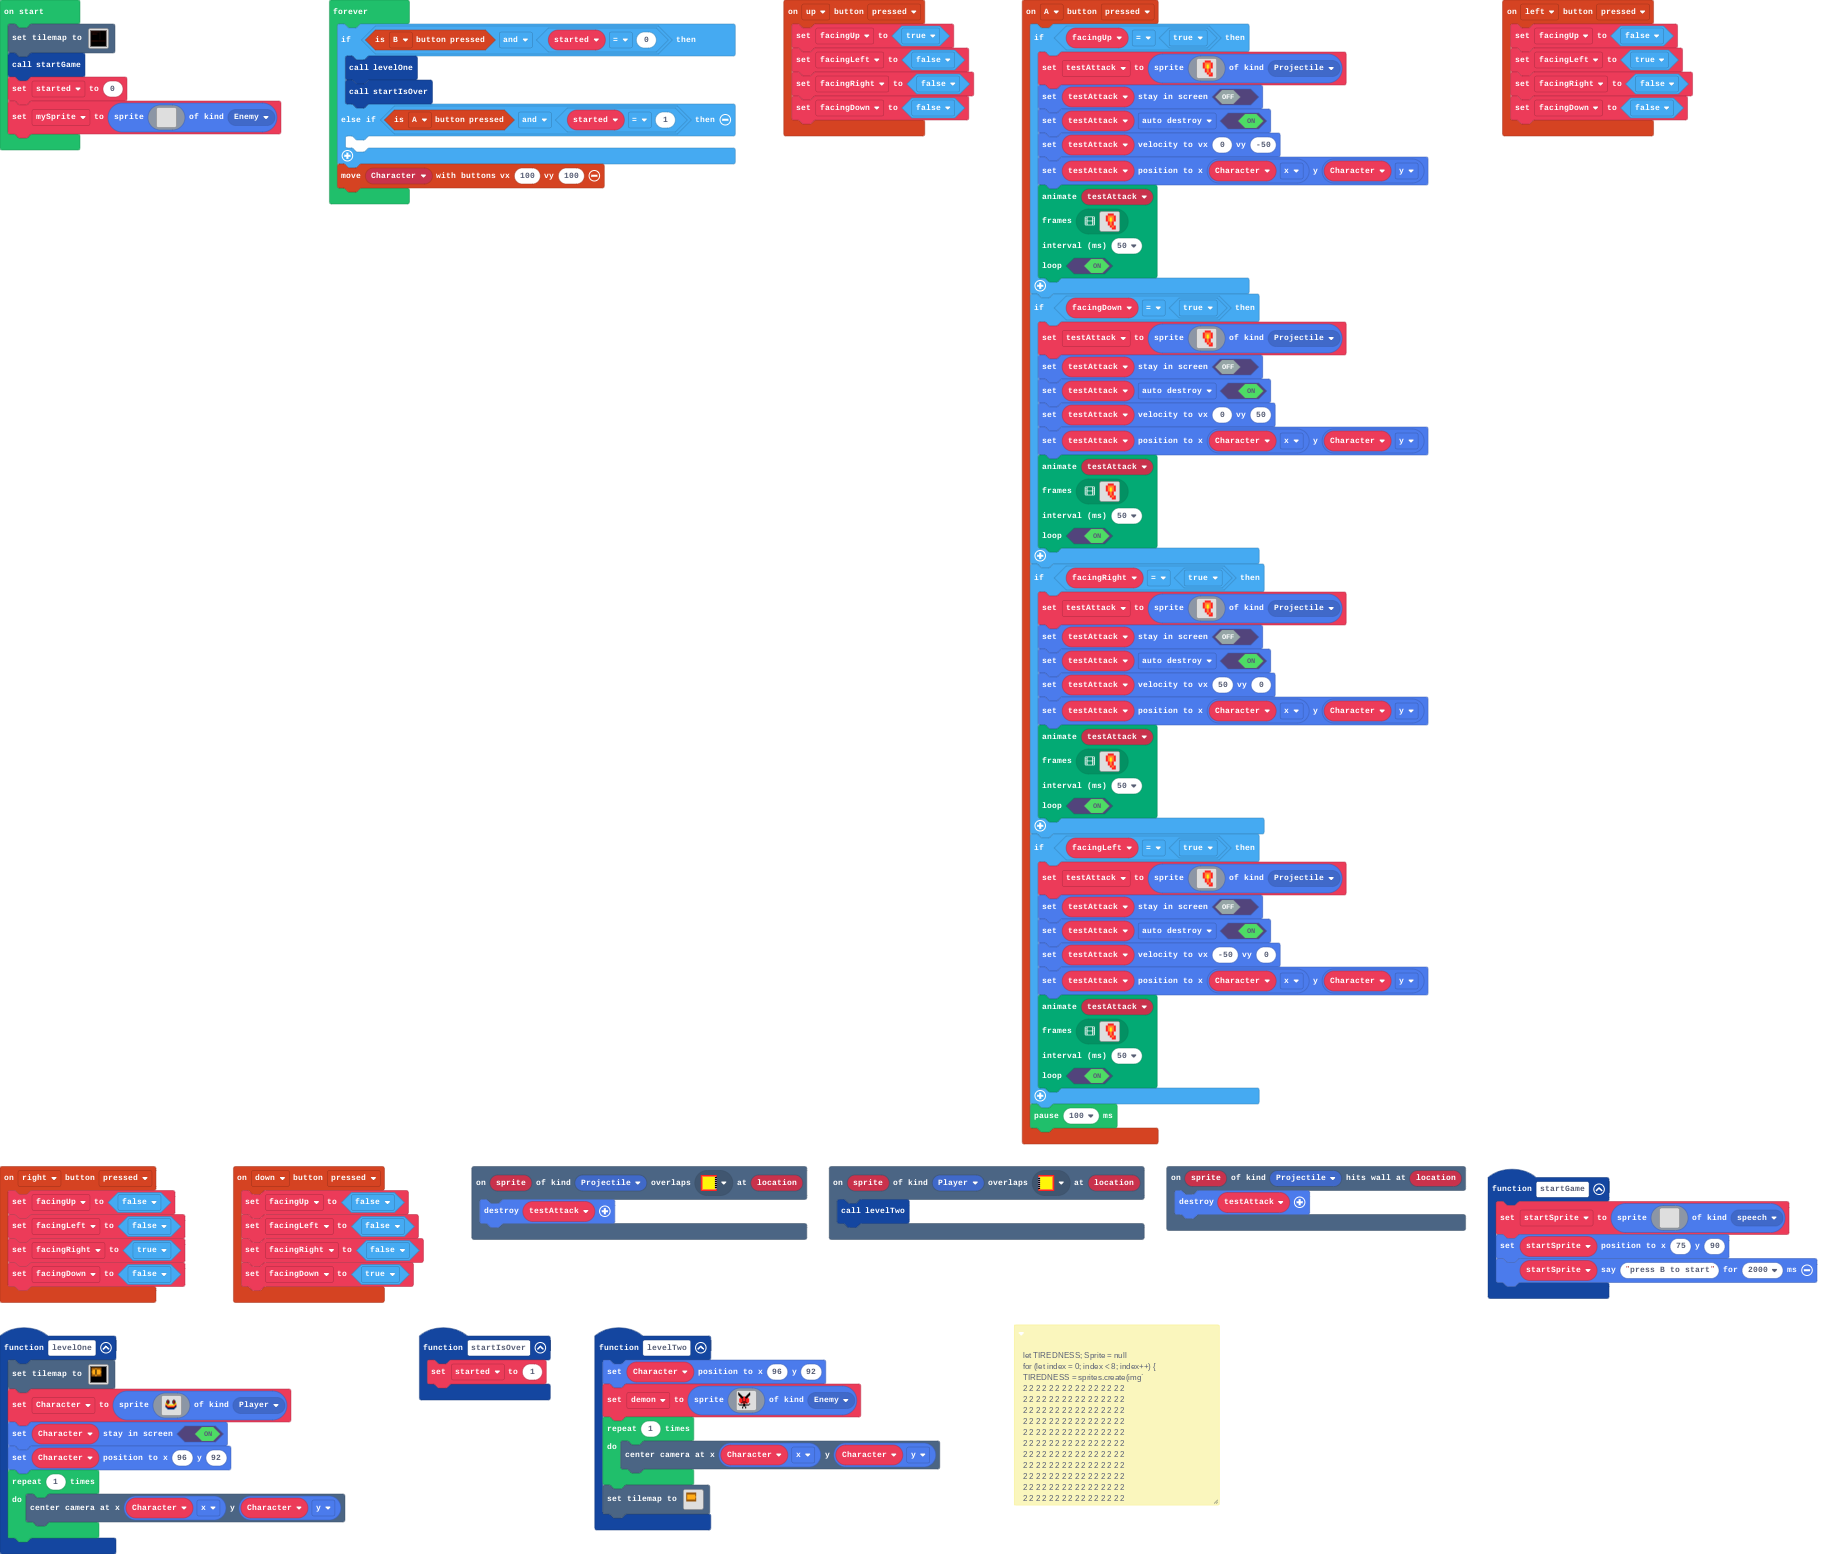
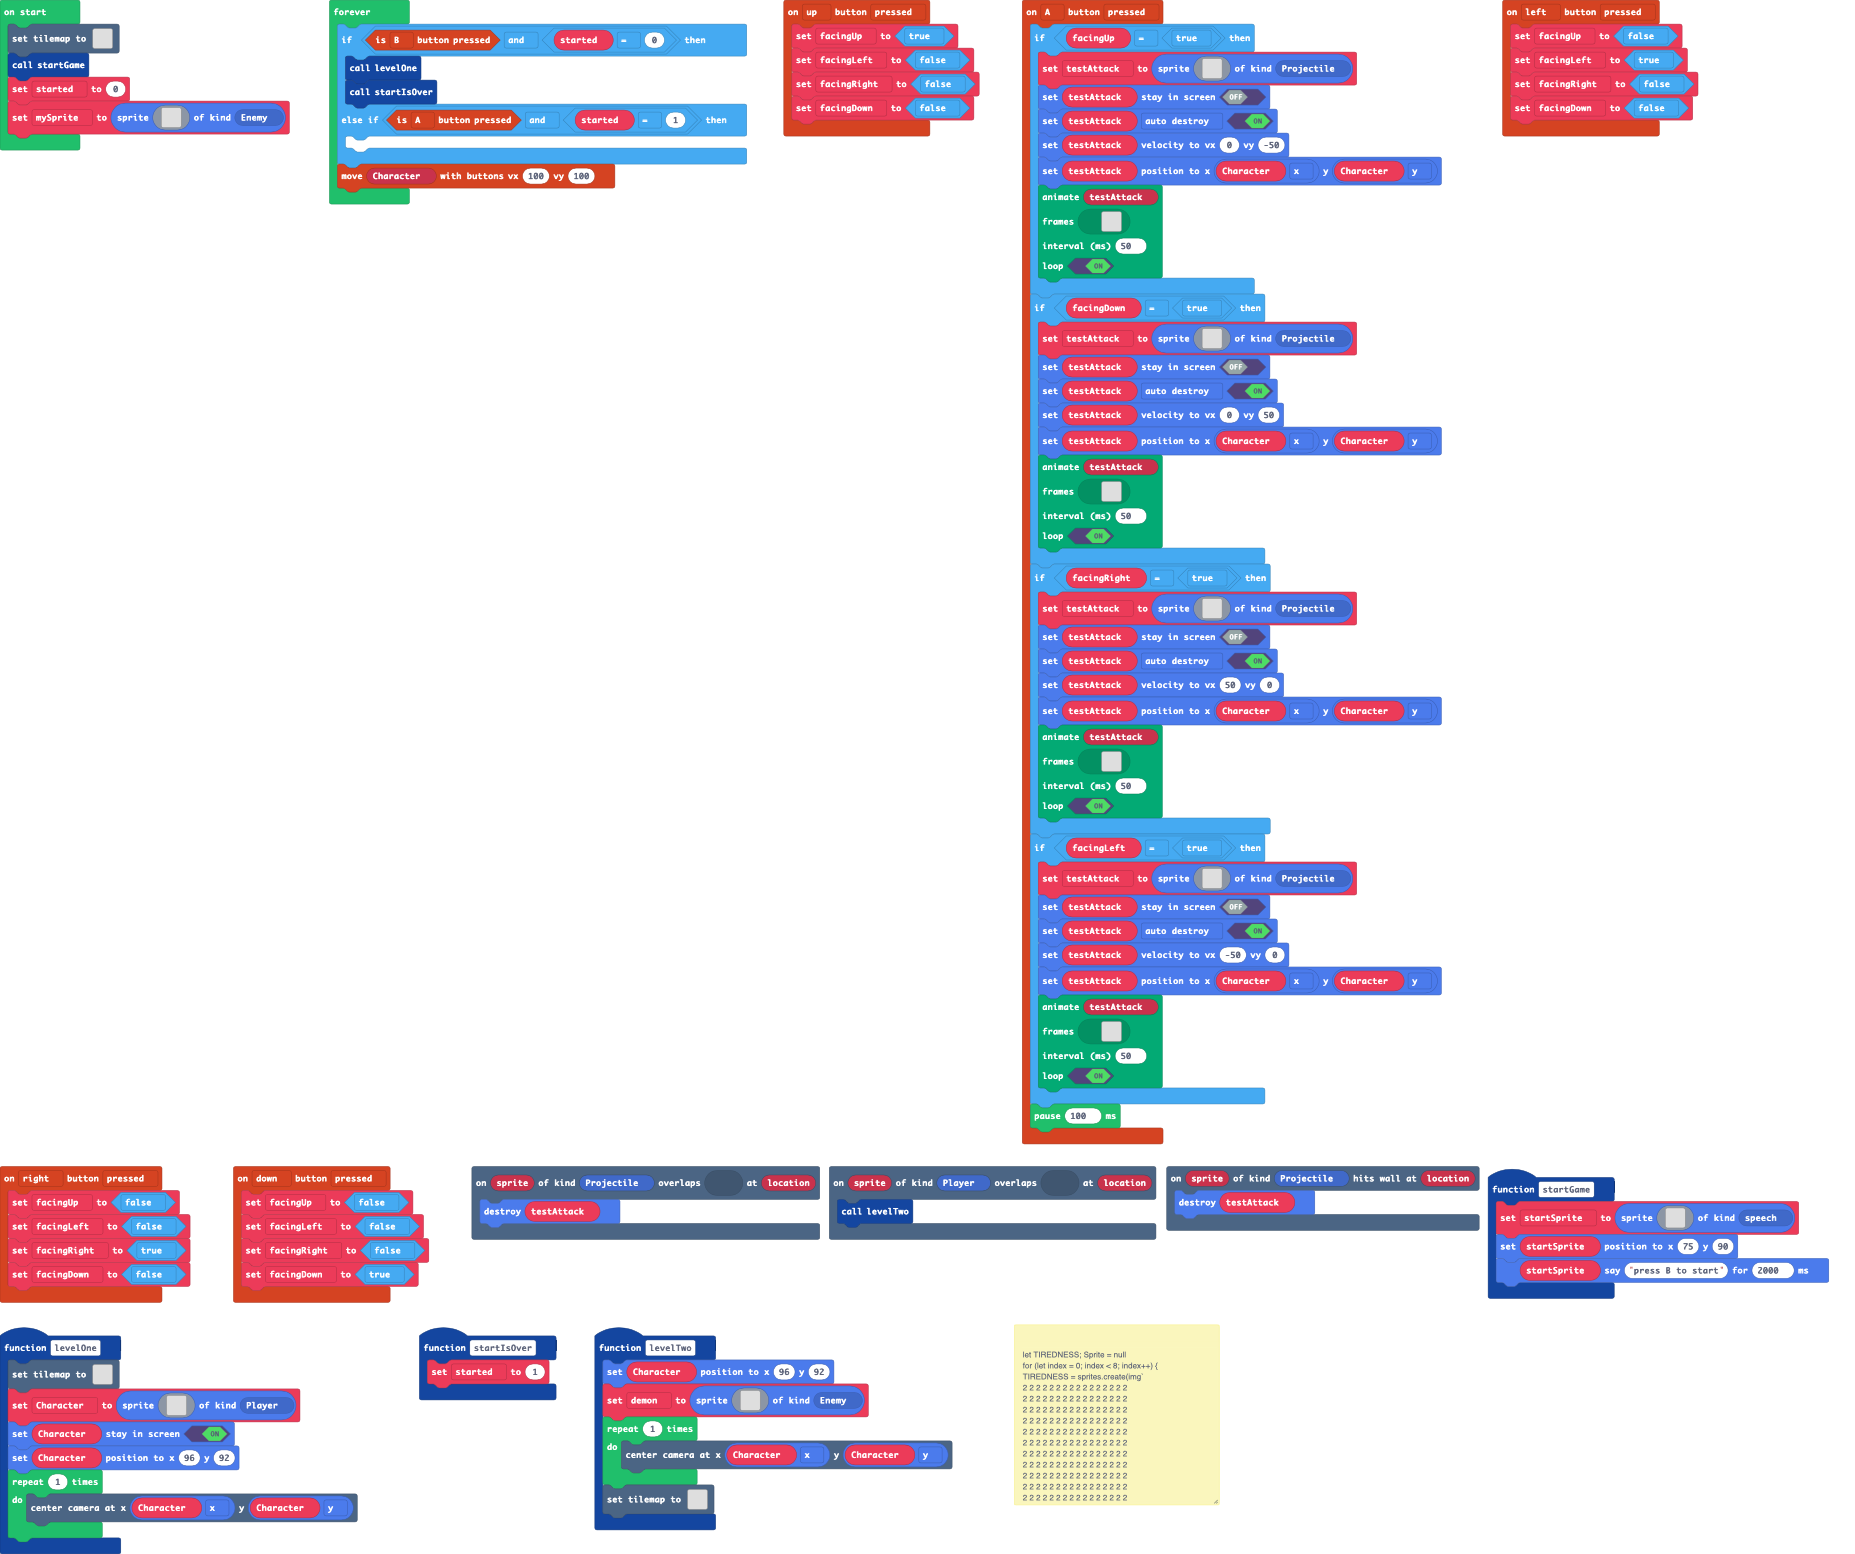
Update main.blocks, images.g.jres, images.g.ts

diff --git a/images.g.ts b/images.g.ts
@@ -122,6 +122,195 @@ namespace myImages {
 . 2 4 2 2 . . . 
 . 2 2 . . . . . 
 `];
+            case "myAnim":
+            case "anim2":return [img`
+. . . . . . . . . . . . . . . . 
+. . . . . . . . . . . . . . . . 
+. . . . . . . . . . . . . . . . 
+. . . . . . . . . . . . . . . . 
+. . . . . . . . . . . . . . . . 
+. . . . . . . . . . . . . . . . 
+. . . . . . f f f . . . . . . . 
+. . . . . f f f f f . . . . . . 
+. . . . . f f f f f . . . . . . 
+. . . . . . . f f . . . . . . . 
+. . . . . . . . . . . . . . . . 
+. . . . . . . . . . . . . . . . 
+. . . . . . . . . . . . . . . . 
+. . . . . . . . . . . . . . . . 
+. . . . . . . . . . . . . . . . 
+. . . . . . . . . . . . . . . . 
+`, img`
+. . . . . . . . . . . . . . . . 
+. . . . . . . . . . . . . . . . 
+. . . . . . . . . . . . . . . . 
+. . . . . . . . . . . . . . . . 
+. . . . . . . . . . . . . . . . 
+. . . . . . f f f . . . . . . . 
+. . . . . f f f f f . . . . . . 
+. . . . f f f f f f f . . . . . 
+. . . . f f f f f f f . . . . . 
+. . . . . f f f f f . . . . . . 
+. . . . . . . f f . . . . . . . 
+. . . . . . . . . . . . . . . . 
+. . . . . . . . . . . . . . . . 
+. . . . . . . . . . . . . . . . 
+. . . . . . . . . . . . . . . . 
+. . . . . . . . . . . . . . . . 
+`, img`
+. . . . . . . . . . . . . . . . 
+. . . . . . . . . . . . . . . . 
+. . . . . . . . . . . . . . . . 
+. . . . . . . . . . . . . . . . 
+. . . . . f f f f . . . . . . . 
+. . . . f f f f f f . . . . . . 
+. . . f f f f f f f f . . . . . 
+. . . f f f f f f f f f . . . . 
+. . . f f f f f f f f f . . . . 
+. . . f f f f f f f f f . . . . 
+. . . . f f f f f f f . . . . . 
+. . . . . . f f f . . . . . . . 
+. . . . . . . . . . . . . . . . 
+. . . . . . . . . . . . . . . . 
+. . . . . . . . . . . . . . . . 
+. . . . . . . . . . . . . . . . 
+`, img`
+. . . . . . . . . . . . . . . . 
+. . . . . . . . . . . . . . . . 
+. . . . . . . . . . . . . . . . 
+. . . . . . f f f . . . . . . . 
+. . . . f f f f f f f . . . . . 
+. . . f f f f f f f f f . . . . 
+. . f f f f f f f f f f . . . . 
+. . f f f f f f f f f f f . . . 
+. . f f f f f f f f f f f . . . 
+. . f f f f f f f f f f f . . . 
+. . . f f f f f f f f f . . . . 
+. . . . . f f f f f f . . . . . 
+. . . . . . . f f . . . . . . . 
+. . . . . . . . . . . . . . . . 
+. . . . . . . . . . . . . . . . 
+. . . . . . . . . . . . . . . . 
+`, img`
+. . . . . . . . . . . . . . . . 
+. . . . . . . . . . . . . . . . 
+. . . . . . f f f . . . . . . . 
+. . . . f f f f f f . . . . . . 
+. . . f f f f f f f f f . . . . 
+. . f f f f f f f f f f f . . . 
+. . f f f f f f f f f f f f . . 
+. f f f f f f f f f f f f f . . 
+. f f f f f f f f f f f f f . . 
+. f f f f f f f f f f f f . . . 
+. . f f f f f f f f f f f . . . 
+. . . f f f f f f f f f . . . . 
+. . . . f f f f f f f . . . . . 
+. . . . . . f f f f . . . . . . 
+. . . . . . . . . . . . . . . . 
+. . . . . . . . . . . . . . . . 
+`, img`
+. . . . . . . . . . . . . . . . 
+. . . . . . . . . . . . . . . . 
+. . . . . . f f f . . . . . . . 
+. . . . f f f f f f . . . . . . 
+. . . f f f f f f f f f . . . . 
+. . f f f f f f f f f f f . . . 
+. . f f f f f f f f f f f f . . 
+. f f f f f f f f f f f f f . . 
+. f f f f f f f f f f f f f . . 
+. f f f f f f f f f f f f . . . 
+. . f f f f f f f f f f f . . . 
+. . . f f f f f f f f f . . . . 
+. . . . f f f f f f f . . . . . 
+. . . . . . f f f f . . . . . . 
+. . . . . . . . . . . . . . . . 
+. . . . . . . . . . . . . . . . 
+`, img`
+. . . . . . . . . . . . . . . . 
+. . . . . . . . . . . . . . . . 
+. . . . . . f f f . . . . . . . 
+. . . . f f f f f f . . . . . . 
+. . . f f f f f f f f f . . . . 
+. . f f f f f f f f f f f . . . 
+. . f f f f f f f f f f f f . . 
+. f f f f f f f f f f f f f . . 
+. f f f f f f f f f f f f f . . 
+. f f f f f f f f f f f f . . . 
+. . f f f f f f f f f f f . . . 
+. . . f f f f f f f f f . . . . 
+. . . . f f f f f f f . . . . . 
+. . . . . . f f f f . . . . . . 
+. . . . . . . . . . . . . . . . 
+. . . . . . . . . . . . . . . . 
+`, img`
+. . . . . . . . . . . . . . . . 
+. . . . . . . . . . . . . . . . 
+. . . . . . . . . . . . . . . . 
+. . . . . . f f f . . . . . . . 
+. . . . f f f f f f f . . . . . 
+. . . f f f f f f f f f . . . . 
+. . f f f f f f f f f f . . . . 
+. . f f f f f f f f f f f . . . 
+. . f f f f f f f f f f f . . . 
+. . f f f f f f f f f f f . . . 
+. . . f f f f f f f f f . . . . 
+. . . . . f f f f f f . . . . . 
+. . . . . . . f f . . . . . . . 
+. . . . . . . . . . . . . . . . 
+. . . . . . . . . . . . . . . . 
+. . . . . . . . . . . . . . . . 
+`, img`
+. . . . . . . . . . . . . . . . 
+. . . . . . . . . . . . . . . . 
+. . . . . . . . . . . . . . . . 
+. . . . . . . . . . . . . . . . 
+. . . . . f f f f . . . . . . . 
+. . . . f f f f f f . . . . . . 
+. . . f f f f f f f f . . . . . 
+. . . f f f f f f f f f . . . . 
+. . . f f f f f f f f f . . . . 
+. . . f f f f f f f f f . . . . 
+. . . . f f f f f f f . . . . . 
+. . . . . . f f f . . . . . . . 
+. . . . . . . . . . . . . . . . 
+. . . . . . . . . . . . . . . . 
+. . . . . . . . . . . . . . . . 
+. . . . . . . . . . . . . . . . 
+`, img`
+. . . . . . . . . . . . . . . . 
+. . . . . . . . . . . . . . . . 
+. . . . . . . . . . . . . . . . 
+. . . . . . . . . . . . . . . . 
+. . . . . . . . . . . . . . . . 
+. . . . . . f f f . . . . . . . 
+. . . . . f f f f f . . . . . . 
+. . . . f f f f f f f . . . . . 
+. . . . f f f f f f f . . . . . 
+. . . . . f f f f f . . . . . . 
+. . . . . . . f f . . . . . . . 
+. . . . . . . . . . . . . . . . 
+. . . . . . . . . . . . . . . . 
+. . . . . . . . . . . . . . . . 
+. . . . . . . . . . . . . . . . 
+. . . . . . . . . . . . . . . . 
+`, img`
+. . . . . . . . . . . . . . . . 
+. . . . . . . . . . . . . . . . 
+. . . . . . . . . . . . . . . . 
+. . . . . . . . . . . . . . . . 
+. . . . . . . . . . . . . . . . 
+. . . . . . . . . . . . . . . . 
+. . . . . . f f f . . . . . . . 
+. . . . . f f f f f . . . . . . 
+. . . . . f f f f f . . . . . . 
+. . . . . . . f f . . . . . . . 
+. . . . . . . . . . . . . . . . 
+. . . . . . . . . . . . . . . . 
+. . . . . . . . . . . . . . . . 
+. . . . . . . . . . . . . . . . 
+. . . . . . . . . . . . . . . . 
+. . . . . . . . . . . . . . . . 
+`];
         }
         return null;
     })
